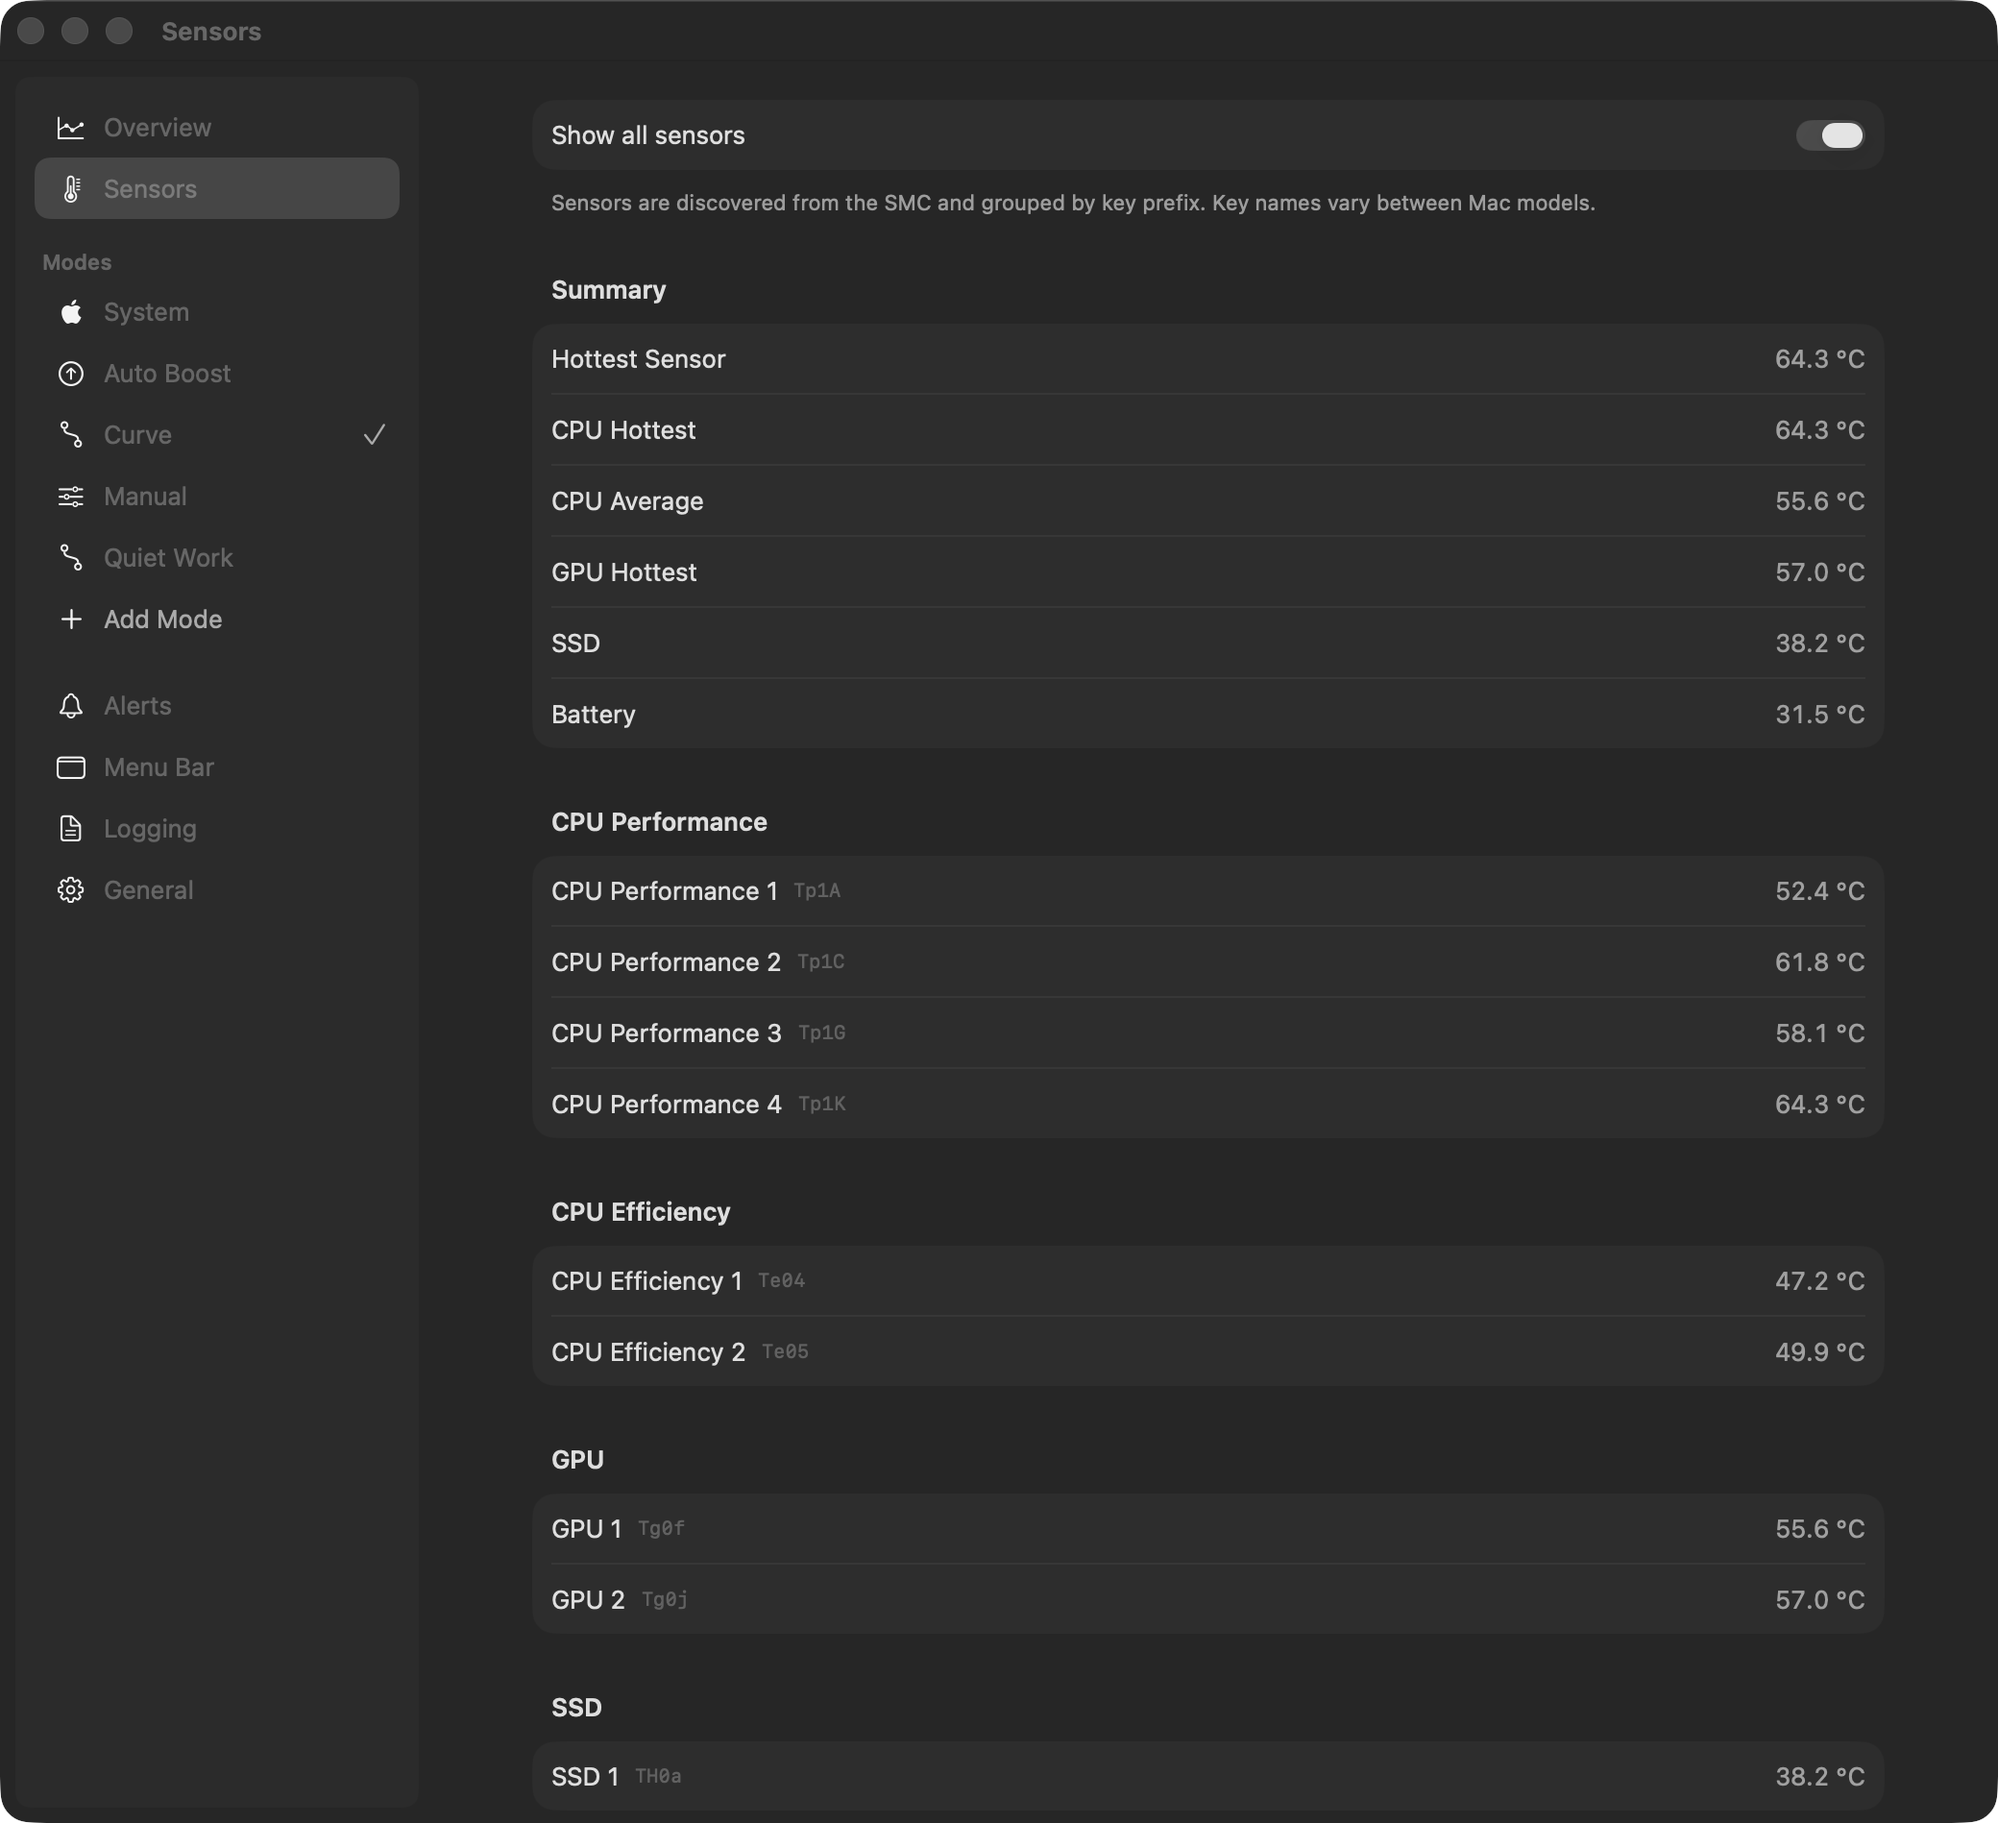
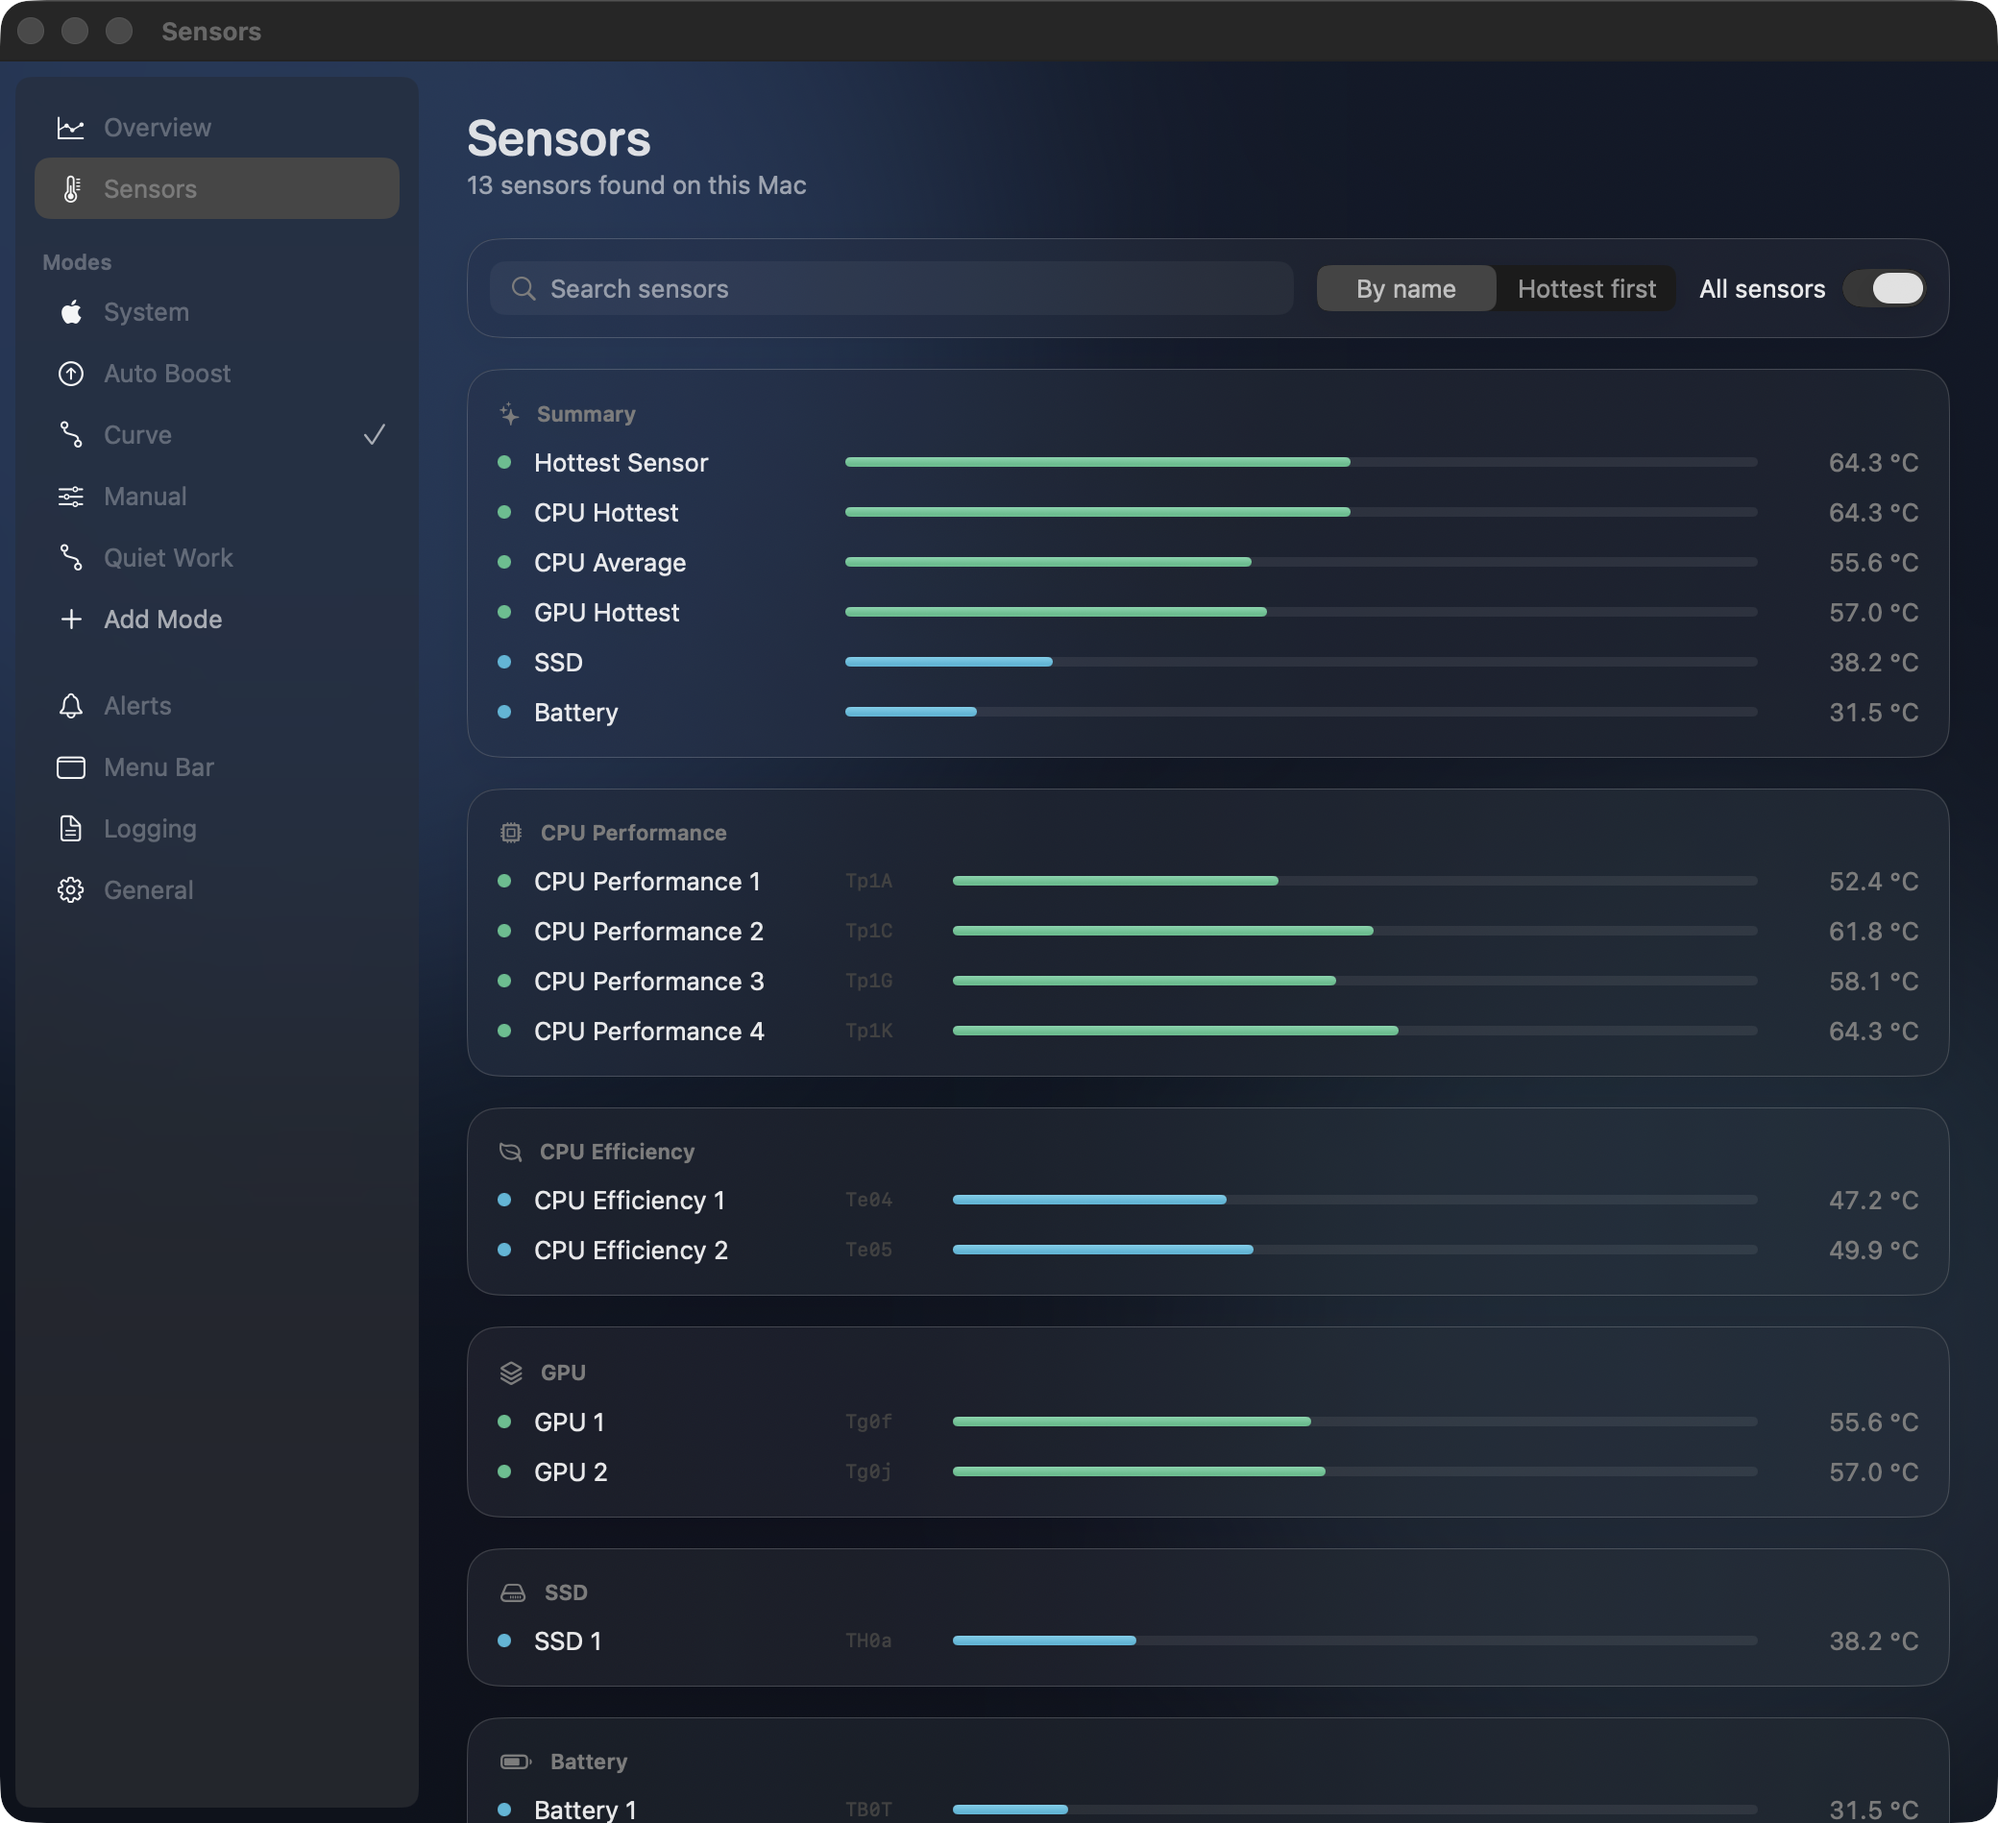
chore: document new design in readme with fresh screenshots

diff --git a/README.md b/README.md
@@ -37,6 +37,8 @@
 - **History**: temperature and fan speed charts over the last 5, 15 or 60 minutes.
 - **Alerts**: notifications when a sensor crosses a threshold, with a repeat cooldown.
 - **CSV logging**: every sensor and fan, at a chosen interval, one file per day.
+- **Design**: an airy, frosted look where color only ever means heat, fans that spin at their real pace, a draggable fan curve, and a short welcome on first launch.
+- **Menu bar icon**: the fan turns while the fans run, faster as they speed up. It can be switched off.
 - **Fail-safe**: the fans go back to macOS when Tuuli quits or crashes, when it stops responding for 10 seconds, when the Mac goes to sleep, and when the helper is stopped.
 
 ## Screenshots
@@ -52,6 +54,19 @@
   <img src="docs/screenshots/menu-bar-light.png" alt="Menu bar and popover settings" width="880">
 </picture>
 <p align="center"><sub>Menu bar and popover</sub></p>
+
+<p align="center">
+  <picture>
+    <source media="(prefers-color-scheme: dark)" srcset="docs/screenshots/popover-dark.png">
+    <img src="docs/screenshots/popover-light.png" alt="Menu bar popover" width="300">
+  </picture>
+  &nbsp;&nbsp;
+  <picture>
+    <source media="(prefers-color-scheme: dark)" srcset="docs/screenshots/onboarding-3-dark.png">
+    <img src="docs/screenshots/onboarding-3-light.png" alt="Welcome, picking a starting mode" width="460">
+  </picture>
+</p>
+<p align="center"><sub>Popover and first launch</sub></p>
 
 <picture>
   <source media="(prefers-color-scheme: dark)" srcset="docs/screenshots/sensors-dark.png">
@@ -70,7 +85,7 @@
 2. Tuuli is signed with a local Apple Development identity and not notarized, so Gatekeeper blocks the first launch:
    - Open the app once, then go to **System Settings > Privacy & Security** and click **Open Anyway**.
    - Or remove the quarantine flag from Terminal: `xattr -dr com.apple.quarantine /Applications/Tuuli.app`
-3. Launch Tuuli. The settings window opens on first launch.
+3. Launch Tuuli. A short welcome walks you through the helper and a starting mode.
 4. To control fans, open **General** and click **Install Helper…**, then enter your administrator password.
 
 ## How fan control works
